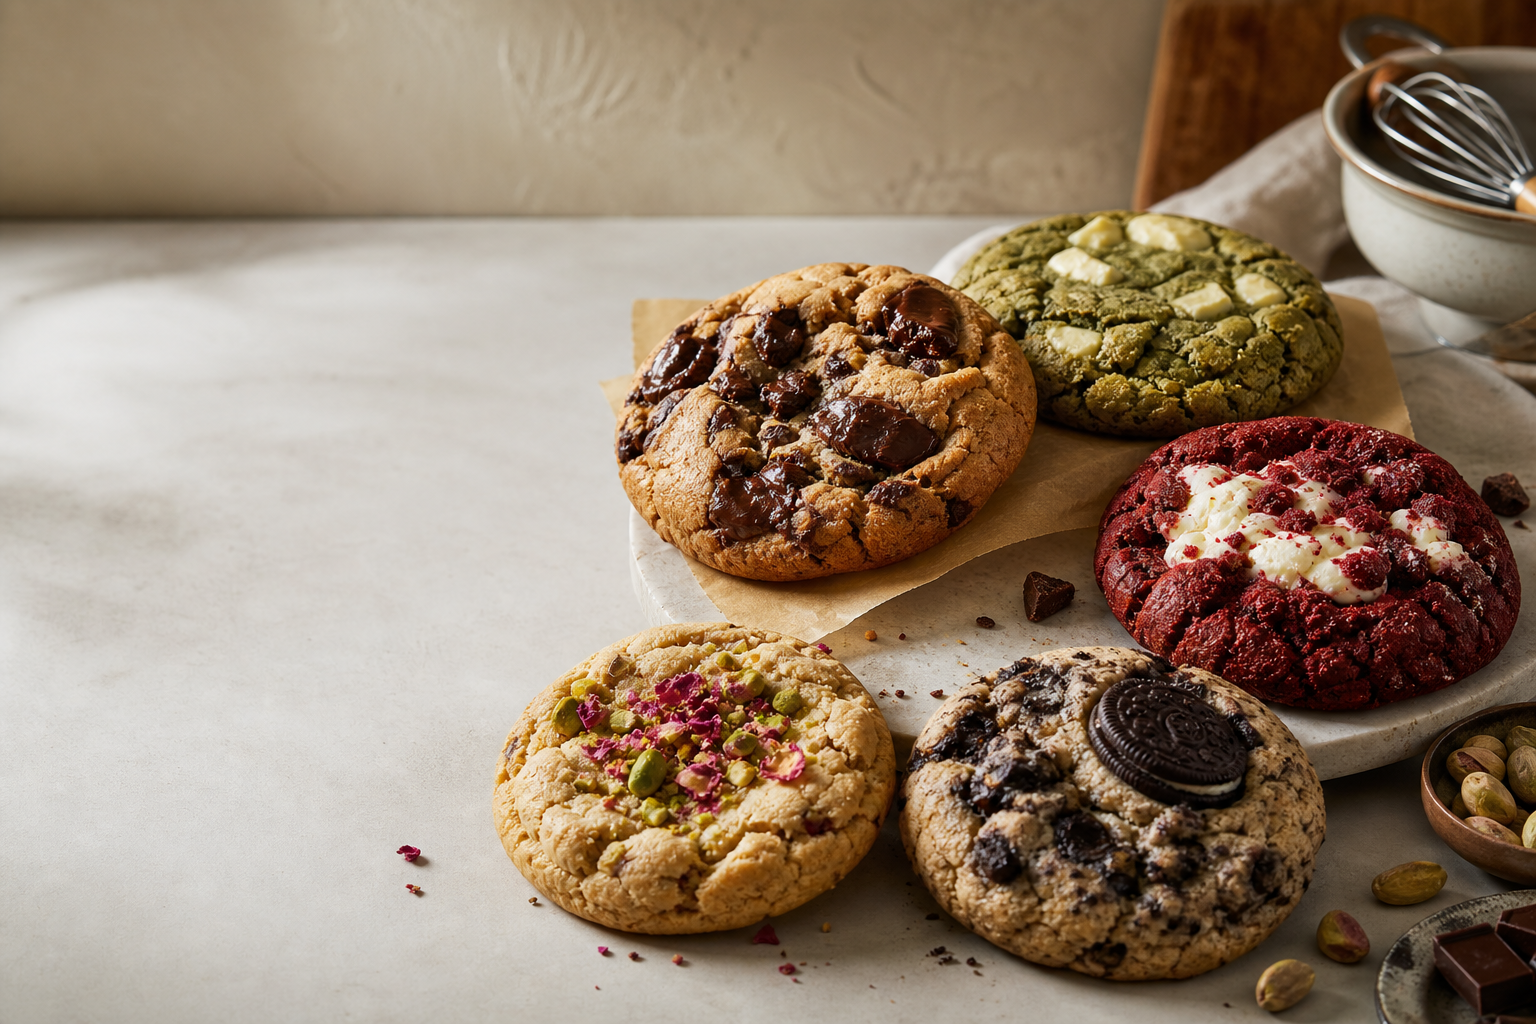
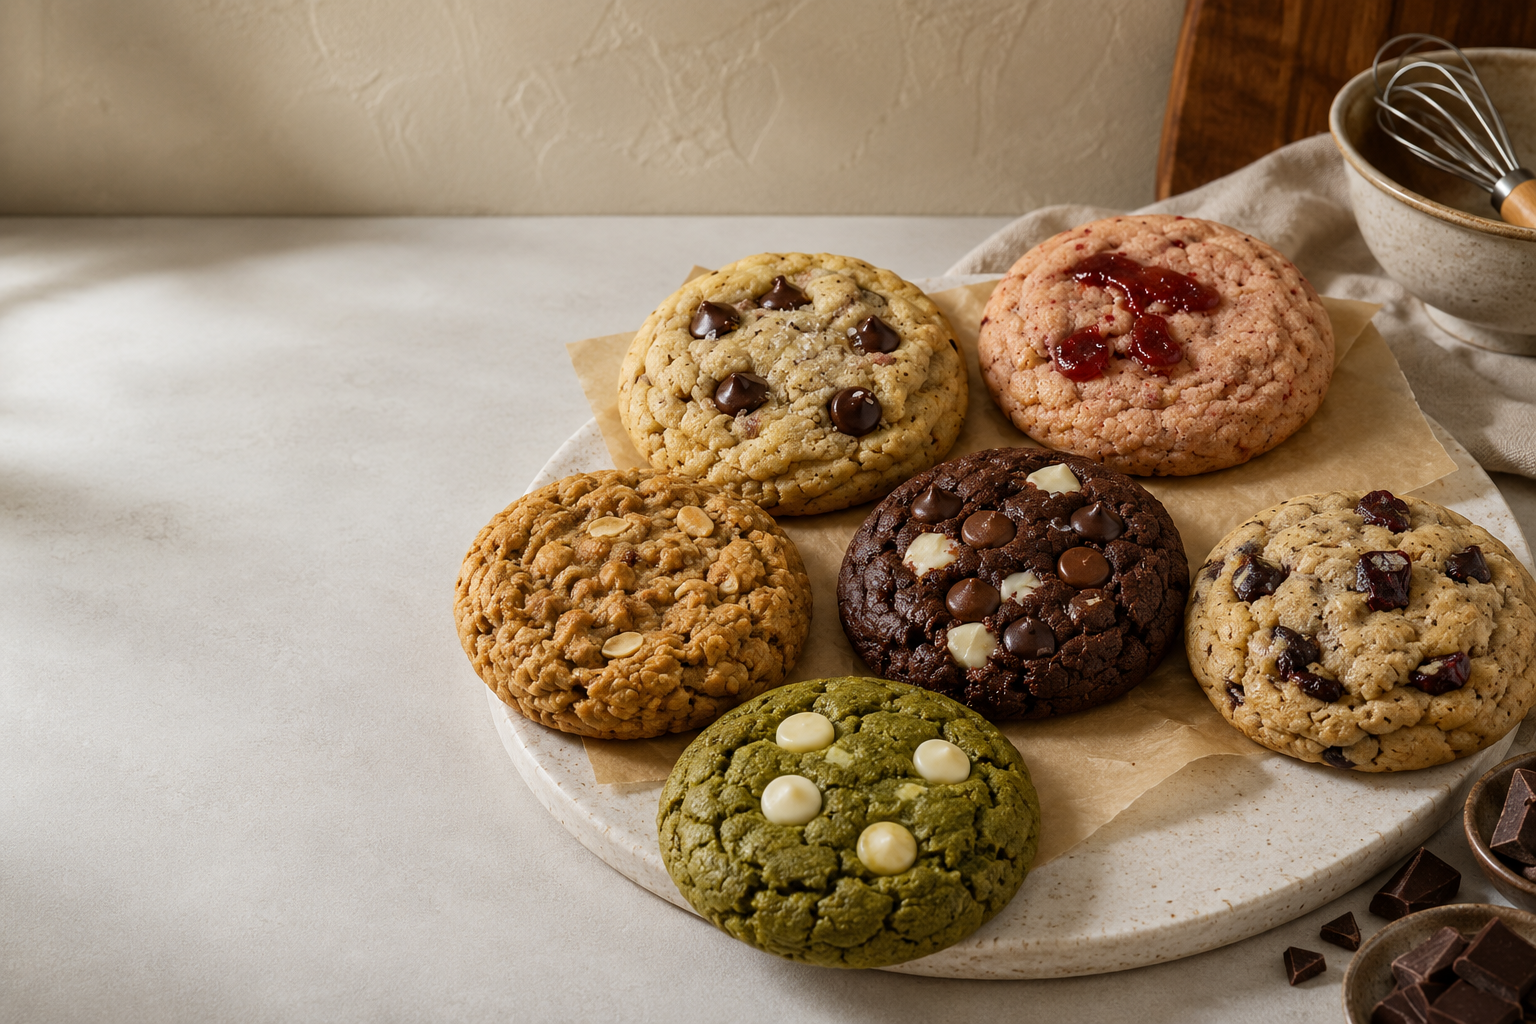
fix pictures

diff --git a/src/App.jsx b/src/App.jsx
@@ -28,7 +28,7 @@ const cookies = [
     summary:
       "Rich brown butter dough loaded with semi-sweet and Belgian dark chocolate.",
     notes: ["brown butter", "semi-sweet", "Belgian dark chocolate"],
-    image: "/images/brown-butter-chocolate.png",
+    image: "/images/closeups/ruth-chocolate-chips.png",
     alt: "A rich chocolate chip cookie with glossy pools of chocolate.",
     accent: "#8b4f35",
     wash: "#f3d8c8",
@@ -40,7 +40,7 @@ const cookies = [
     summary:
       "Earthy Japanese matcha paired with smooth Belgian white chocolate.",
     notes: ["Japanese matcha", "Belgian white chocolate", "smooth finish"],
-    image: "/images/matcha-white-chocolate.png",
+    image: "/images/closeups/ash-daily-matcha.png",
     alt: "A matcha cookie with chunks of white chocolate.",
     accent: "#597a42",
     wash: "#e7efd8",
@@ -51,7 +51,7 @@ const cookies = [
     kicker: "For chocolate lovers",
     summary: "Rich cocoa cookie loaded with three varieties of chocolate.",
     notes: ["rich cocoa", "triple chocolate", "decadent bite"],
-    image: "/images/cookies-and-cream.png",
+    image: "/images/closeups/charlie-triple-chocolate.png",
     alt: "A dark cocoa cookie with multiple chocolate mix-ins.",
     accent: "#4a2d26",
     wash: "#ebdfd8",
@@ -62,7 +62,7 @@ const cookies = [
     kicker: "Bright and fruity",
     summary: "Sweet cookie bursting with bright, strawberry flavor.",
     notes: ["strawberry", "sweet crumb", "fruity pop"],
-    image: "/images/red-velvet-cream-cheese.png",
+    image: "/images/closeups/lotso-strawberry-basket.png",
     alt: "A vibrant red cookie with a soft center.",
     accent: "#a32639",
     wash: "#f4dbe0",
@@ -73,7 +73,7 @@ const cookies = [
     kicker: "Bold coffee hit",
     summary: "Bold Japanese coffee cookie topped with toasted almond slivers.",
     notes: ["Japanese coffee", "toasted almond", "deep roast"],
-    image: "/images/brown-butter-chocolate.png",
+    image: "/images/closeups/garfield-morning-brew.png",
     alt: "A coffee-toned cookie topped with almond slivers.",
     accent: "#5a4638",
     wash: "#efe6de",
@@ -84,7 +84,7 @@ const cookies = [
     kicker: "Fragrant tea notes",
     summary: "Fragrant Earl Grey cookie dotted with tart dried cranberries.",
     notes: ["Earl Grey", "dried cranberries", "tart finish"],
-    image: "/images/pistachio-rose.png",
+    image: "/images/closeups/earl-rubies.png",
     alt: "A cookie with floral notes and cranberry accents.",
     accent: "#6d5660",
     wash: "#efe6ea",